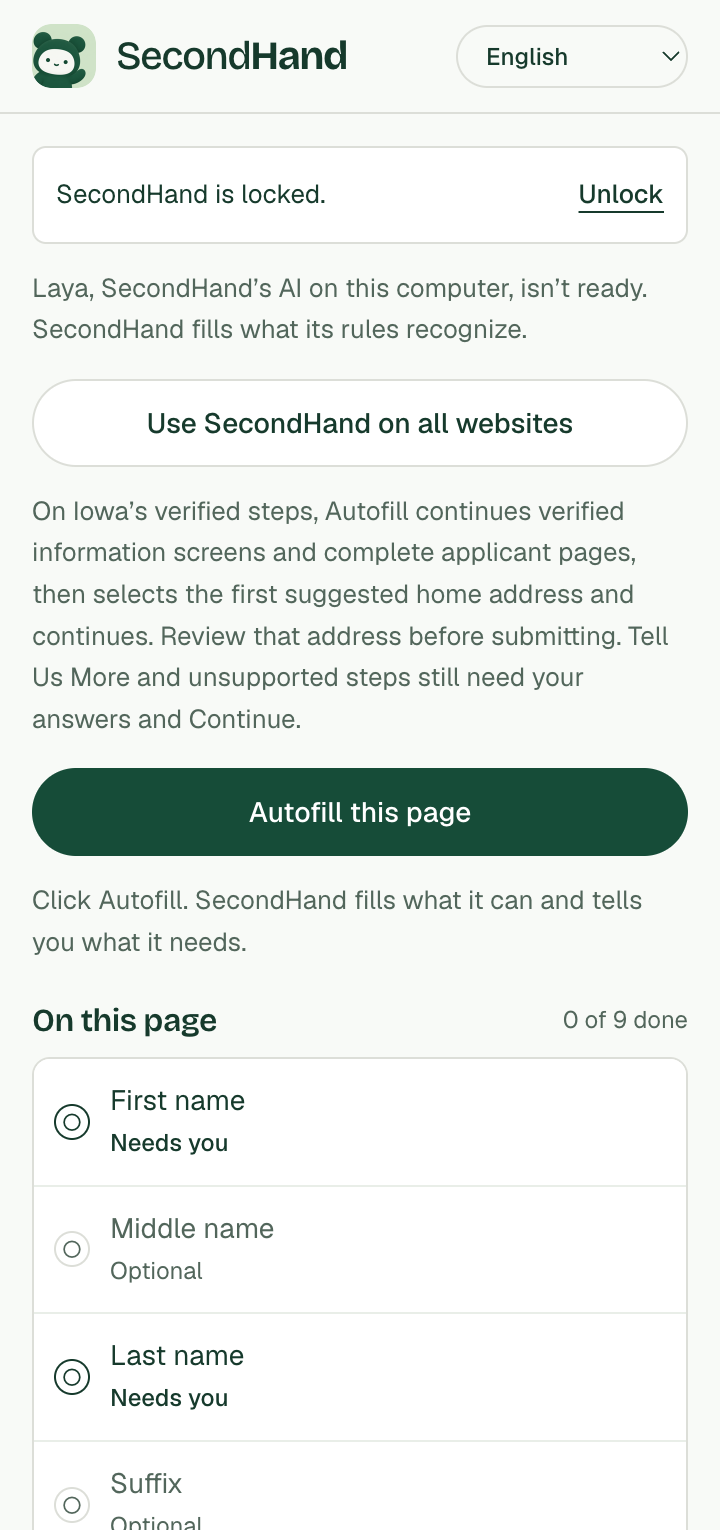
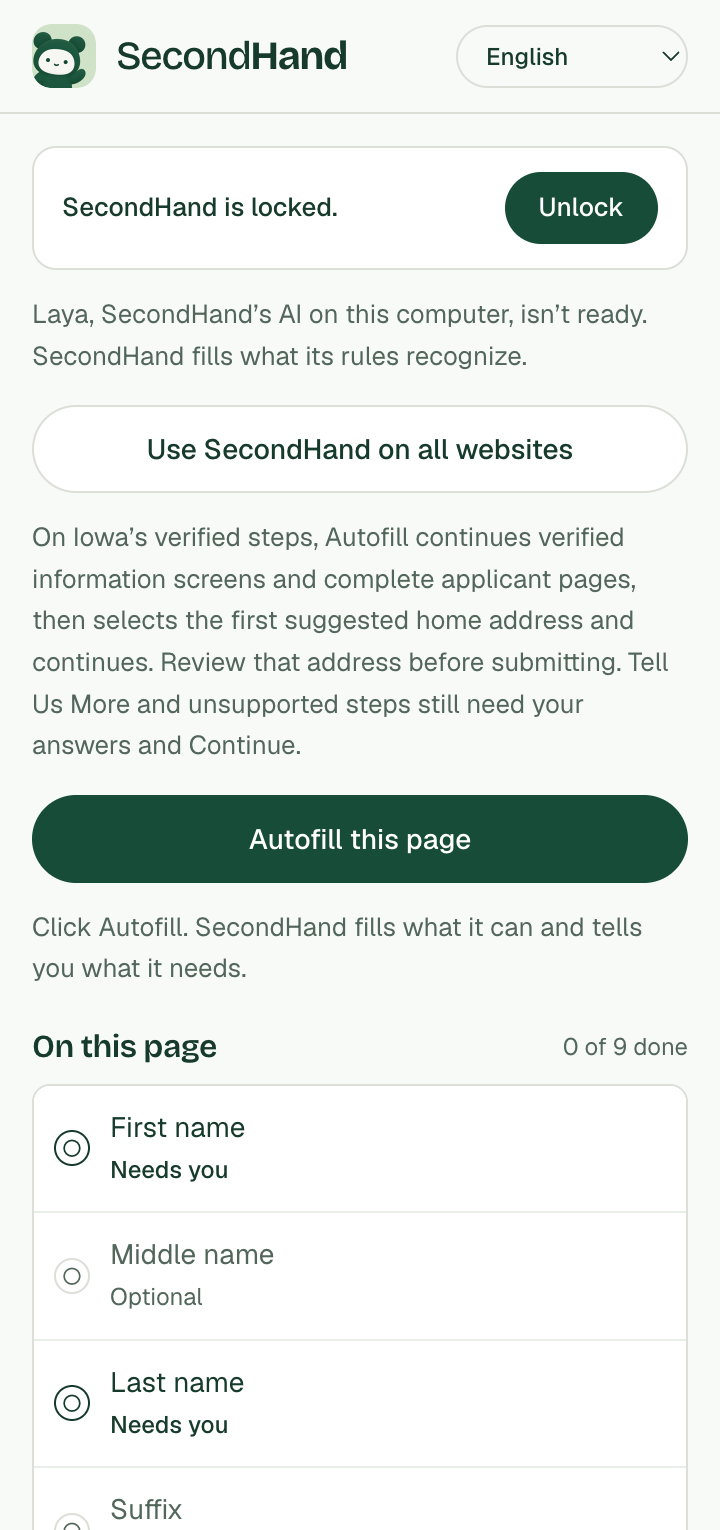
feat: show the app's status only when it needs you
The side panel no longer says SecondHand is unlocked, or that it is checking: an app that is open and unlocked needs nothing from the reader, so its row stays hidden. A locked or closed app shows as a notice with a button, Unlock or Open SecondHand, and only a real problem reaching the app is drawn as an error. The closed notice drops the sentence that repeated its button.

diff --git a/extension/strings.js b/extension/strings.js
@@ -49,7 +49,6 @@
     'panel.updateFailed': 'SecondHand couldn’t update its extension files. In the SecondHand app, open Chrome extension and click Refresh extension files. Then open chrome://extensions and click the reload arrow on SecondHand.',
     'panel.updateElsewhere': 'Chrome is running a copy of SecondHand that the app doesn’t update. In the SecondHand app, open Chrome extension and click Copy folder path. Then, at chrome://extensions, remove this copy, choose Load unpacked, and pick that folder.',
     'panel.assistantUnavailable': 'The assistant is unavailable. Reload the extension and this page.',
-    'panel.checkingDesktop': 'Checking SecondHand…',
     'panel.unlock': 'Unlock',
     'panel.framesEnable': 'Also turn on the embedded form',
     'panel.framesEnableHosts': 'Also turn on the embedded form ({hosts})',
@@ -90,8 +89,7 @@
     'panel.turningOffAllSites': 'Turning SecondHand off on all websites…',
     'panel.openForm': 'Open Iowa’s SNAP application or another food-assistance form in this tab.',
 
-    'desktop.notRunning': 'SecondHand isn’t running. Open the app on this computer.',
-    'desktop.unlocked': 'SecondHand is unlocked.',
+    'desktop.notRunning': 'SecondHand isn’t running.',
     'desktop.locked': 'SecondHand is locked.',
     'desktop.unlockThenAutofill': 'Unlock SecondHand, then click Autofill.',
     'desktop.open': 'Open SecondHand',
@@ -375,7 +373,6 @@
     'panel.updateFailed': 'SecondHand no pudo actualizar los archivos de su extensión. En la aplicación SecondHand, abra “Chrome extension” y haga clic en “Refresh extension files”. Luego abra chrome://extensions y haga clic en la flecha de recargar de SecondHand.',
     'panel.updateElsewhere': 'Chrome está usando una copia de SecondHand que la aplicación no actualiza. En la aplicación SecondHand, abra “Chrome extension” y haga clic en “Copy folder path”. Luego, en chrome://extensions, quite esta copia, elija “Cargar descomprimida” y seleccione esa carpeta.',
     'panel.assistantUnavailable': 'El asistente no está disponible. Recargue la extensión y esta página.',
-    'panel.checkingDesktop': 'Comprobando SecondHand…',
     'panel.unlock': 'Desbloquear',
     'panel.framesEnable': 'También activar el formulario integrado',
     'panel.framesEnableHosts': 'También activar el formulario integrado ({hosts})',
@@ -416,8 +413,7 @@
     'panel.turningOffAllSites': 'Desactivando SecondHand en todos los sitios web…',
     'panel.openForm': 'Abra la solicitud de SNAP de Iowa u otro formulario de ayuda alimentaria en esta pestaña.',
 
-    'desktop.notRunning': 'SecondHand no está abierto. Abra la aplicación en esta computadora.',
-    'desktop.unlocked': 'SecondHand está desbloqueado.',
+    'desktop.notRunning': 'SecondHand no está abierto.',
     'desktop.locked': 'SecondHand está bloqueado.',
     'desktop.unlockThenAutofill': 'Desbloquee SecondHand y luego haga clic en “Autocompletar”.',
     'desktop.open': 'Abrir SecondHand',
@@ -698,7 +694,6 @@
     'panel.updateFailed': 'SecondHand không thể cập nhật các tệp tiện ích của mình. Trong ứng dụng SecondHand, hãy mở “Chrome extension” và bấm “Refresh extension files”. Sau đó mở chrome://extensions và bấm mũi tên tải lại trên SecondHand.',
     'panel.updateElsewhere': 'Chrome đang chạy một bản SecondHand mà ứng dụng không cập nhật. Trong ứng dụng SecondHand, hãy mở “Chrome extension” và bấm “Copy folder path”. Sau đó, tại chrome://extensions, hãy xóa bản này, chọn “Tải tiện ích đã giải nén” rồi chọn thư mục đó.',
     'panel.assistantUnavailable': 'Trợ lý hiện không khả dụng. Hãy tải lại tiện ích và trang này.',
-    'panel.checkingDesktop': 'Đang kiểm tra SecondHand…',
     'panel.unlock': 'Mở khóa',
     'panel.framesEnable': 'Bật thêm cho biểu mẫu nhúng',
     'panel.framesEnableHosts': 'Bật thêm cho biểu mẫu nhúng ({hosts})',
@@ -739,8 +734,7 @@
     'panel.turningOffAllSites': 'Đang tắt SecondHand trên mọi trang web…',
     'panel.openForm': 'Hãy mở đơn SNAP của Iowa hoặc một biểu mẫu hỗ trợ thực phẩm khác trong thẻ này.',
 
-    'desktop.notRunning': 'SecondHand chưa chạy. Hãy mở ứng dụng trên máy tính này.',
-    'desktop.unlocked': 'SecondHand đã được mở khóa.',
+    'desktop.notRunning': 'SecondHand chưa chạy.',
     'desktop.locked': 'SecondHand đang bị khóa.',
     'desktop.unlockThenAutofill': 'Hãy mở khóa SecondHand, rồi bấm Tự điền.',
     'desktop.open': 'Mở SecondHand',
@@ -1022,7 +1016,6 @@
     'panel.updateFailed': 'SecondHand 无法更新其扩展程序文件。请在 SecondHand 应用中打开“Chrome extension”，点击“Refresh extension files”。然后打开 chrome://extensions，点击 SecondHand 上的重新加载箭头。',
     'panel.updateElsewhere': 'Chrome 正在运行一份应用不会更新的 SecondHand 副本。请在 SecondHand 应用中打开“Chrome extension”，点击“Copy folder path”。然后在 chrome://extensions 中移除这份副本，选择“加载已解压的扩展程序”，再选择该文件夹。',
     'panel.assistantUnavailable': '助手不可用。请重新加载扩展程序和此页面。',
-    'panel.checkingDesktop': '正在检查 SecondHand…',
     'panel.unlock': '解锁',
     'panel.framesEnable': '同时开启内嵌表格',
     'panel.framesEnableHosts': '同时开启内嵌表格（{hosts}）',
@@ -1063,8 +1056,7 @@
     'panel.turningOffAllSites': '正在所有网站上关闭 SecondHand…',
     'panel.openForm': '请在此标签页中打开爱荷华州的 SNAP 申请或其他食物援助表格。',
 
-    'desktop.notRunning': 'SecondHand 未运行。请在这台电脑上打开应用。',
-    'desktop.unlocked': 'SecondHand 已解锁。',
+    'desktop.notRunning': 'SecondHand 未运行。',
     'desktop.locked': 'SecondHand 已锁定。',
     'desktop.unlockThenAutofill': '请解锁 SecondHand，然后点击自动填写。',
     'desktop.open': '打开 SecondHand',
@@ -1346,7 +1338,6 @@
     'panel.updateFailed': 'SecondHand n’a pas pu mettre à jour les fichiers de son extension. Dans l’application SecondHand, ouvrez « Chrome extension » et cliquez sur « Refresh extension files ». Ouvrez ensuite chrome://extensions et cliquez sur la flèche de rechargement de SecondHand.',
     'panel.updateElsewhere': 'Chrome utilise une copie de SecondHand que l’application ne met pas à jour. Dans l’application SecondHand, ouvrez « Chrome extension » et cliquez sur « Copy folder path ». Ensuite, dans chrome://extensions, supprimez cette copie, choisissez « Charger l’extension non empaquetée » et sélectionnez ce dossier.',
     'panel.assistantUnavailable': 'L’assistant n’est pas disponible. Rechargez l’extension et cette page.',
-    'panel.checkingDesktop': 'Vérification de SecondHand…',
     'panel.unlock': 'Déverrouiller',
     'panel.framesEnable': 'Activer aussi le formulaire intégré',
     'panel.framesEnableHosts': 'Activer aussi le formulaire intégré ({hosts})',
@@ -1387,8 +1378,7 @@
     'panel.turningOffAllSites': 'Désactivation de SecondHand sur tous les sites…',
     'panel.openForm': 'Ouvrez la demande SNAP de l’Iowa ou un autre formulaire d’aide alimentaire dans cet onglet.',
 
-    'desktop.notRunning': 'SecondHand n’est pas ouvert. Ouvrez l’application sur cet ordinateur.',
-    'desktop.unlocked': 'SecondHand est déverrouillé.',
+    'desktop.notRunning': 'SecondHand n’est pas ouvert.',
     'desktop.locked': 'SecondHand est verrouillé.',
     'desktop.unlockThenAutofill': 'Déverrouillez SecondHand, puis cliquez sur Remplir.',
     'desktop.open': 'Ouvrir SecondHand',
@@ -1670,7 +1660,6 @@
     'panel.updateFailed': 'تعذّر على SecondHand تحديث ملفات إضافته. في تطبيق SecondHand، افتح “Chrome extension” وانقر على “Refresh extension files”. ثم افتح chrome://extensions وانقر على سهم إعادة التحميل في SecondHand.',
     'panel.updateElsewhere': 'يشغّل Chrome نسخة من SecondHand لا يحدّثها التطبيق. في تطبيق SecondHand، افتح “Chrome extension” وانقر على “Copy folder path”. ثم في chrome://extensions، أزل هذه النسخة واختر “تحميل الإضافة غير المضغوطة” وحدد ذلك المجلد.',
     'panel.assistantUnavailable': 'المساعد غير متاح. أعد تحميل الإضافة وهذه الصفحة.',
-    'panel.checkingDesktop': 'جارٍ التحقق من SecondHand…',
     'panel.unlock': 'فتح القفل',
     'panel.framesEnable': 'تشغيل النموذج المضمَّن أيضًا',
     'panel.framesEnableHosts': 'تشغيل النموذج المضمَّن أيضًا ({hosts})',
@@ -1711,8 +1700,7 @@
     'panel.turningOffAllSites': 'جارٍ إيقاف SecondHand على كل المواقع…',
     'panel.openForm': 'افتح طلب SNAP الخاص بأيوا أو نموذجًا آخر للمساعدة الغذائية في علامة التبويب هذه.',
 
-    'desktop.notRunning': 'SecondHand لا يعمل. افتح التطبيق على هذا الكمبيوتر.',
-    'desktop.unlocked': 'SecondHand غير مقفل.',
+    'desktop.notRunning': 'SecondHand لا يعمل.',
     'desktop.locked': 'SecondHand مقفل.',
     'desktop.unlockThenAutofill': 'افتح قفل SecondHand، ثم انقر على تعبئة تلقائية.',
     'desktop.open': 'افتح SecondHand',

diff --git a/extension/panel.js b/extension/panel.js
@@ -367,8 +367,10 @@
     }
     // On a tab SecondHand can't read: where to go.
     const elsewhere = () => ({ key: allSites ? 'panel.openForm' : 'panel.openIowa' });
+    // The desktop row shows only while the app needs opening or unlocking, or can't be reached.
     function renderDesktop() {
-      if (desktopLine) $('desktop-status').textContent = words(desktopLine);
+      $('desktop-status').parentElement.hidden = !desktopLine;
+      $('desktop-status').textContent = desktopLine ? words(desktopLine) : '';
       $('desktop-action').hidden = !desktopAction;
       $('desktop-action').textContent = desktopAction ? t(ACTIONS[desktopAction]) : '';
       $('laya-status').hidden = !layaLine;
@@ -556,10 +558,10 @@
     function showDesktop(desktop) {
       allSites = typeof desktop?.allSites === 'boolean' ? desktop.allSites : null;
       updateSteps = Object.hasOwn(UPDATE_STEPS, desktop?.update) ? UPDATE_STEPS[desktop.update] : null;
-      desktopLine = { key: !desktop?.connected ? 'desktop.notRunning' : desktop.unlocked ? 'desktop.unlocked' : 'desktop.locked' };
+      desktopLine = !desktop?.connected ? { key: 'desktop.notRunning' } : desktop.unlocked ? null : { key: 'desktop.locked' };
       layaLine = desktop?.connected && Object.hasOwn(LAYA_LINES, desktop.laya) ? { key: LAYA_LINES[desktop.laya] } : null;
       desktopAction = !desktop?.connected ? 'open' : desktop.unlocked ? null : 'unlock';
-      $('desktop-status').parentElement.classList.toggle('error', !(desktop?.connected && desktop.unlocked));
+      $('desktop-status').parentElement.classList.remove('error');
     }
     function desktopProblem(message) {
       desktopLine = message; layaLine = null; desktopAction = null;

diff --git a/extension/panel.css b/extension/panel.css
@@ -24,7 +24,8 @@ body.launcher-surface{background:transparent}#launcher{width:100%;height:100%;di
 .wordmark{direction:ltr;font-family:var(--display);font-size:clamp(16px,5.6vw,20px);font-weight:500;letter-spacing:-.04em;line-height:1;white-space:nowrap}.wordmark span span{font-weight:700}
 .language-picker{margin-inline-start:auto;max-width:132px;padding:6px 10px;border:1px solid var(--border);border-radius:100px;background:var(--background);font-size:12px;font-weight:500}
 main{padding:16px 16px 0}
-.desktop-row{display:flex;justify-content:space-between;align-items:center;gap:8px;padding:9px 11px;background:var(--muted);border:1px solid var(--border);border-radius:7px}.desktop-row>span{color:var(--muted-foreground);line-height:1.5}.desktop-row.error{background:#fff}.desktop-row.error>span{color:var(--foreground)}
+/* The app needs opening or unlocking. */
+.desktop-row{display:flex;flex-wrap:wrap;justify-content:space-between;align-items:center;gap:8px 12px;padding:12px 14px;background:#fff;border:1px solid var(--border);border-radius:12px}.desktop-row>span{flex:1 1 140px;font-weight:500}.desktop-row.error>span{color:var(--danger)}.desktop-row .button{min-height:36px;margin-top:0;padding:6px 16px;font-size:13px}
 /* The website's buttons: a filled pill, an outlined pill, and an underlined link. */
 .button{display:inline-flex;align-items:center;justify-content:center;min-height:44px;padding:10px 20px;border:1px solid transparent;border-radius:100px;font-size:14px;font-weight:500;line-height:1.3;text-align:center;margin-top:14px}.full{width:100%}
 .primary{background:var(--primary);color:#fff}.primary:hover:enabled{background:var(--pressed)}

diff --git a/extension/panel.html b/extension/panel.html
@@ -44,7 +44,7 @@
       </select>
     </header>
     <main id="panel-body">
-      <div class="desktop-row"><span id="desktop-status" data-i18n="panel.checkingDesktop"></span><button id="desktop-action" class="text-button" type="button" hidden></button></div>
+      <div class="desktop-row" hidden><span id="desktop-status"></span><button id="desktop-action" class="button primary" type="button" hidden></button></div>
       <p id="update-note" class="status" role="status" aria-live="polite" hidden></p>
       <p id="laya-status" class="status" hidden></p>
       <button id="frames-enable" class="button primary full" type="button" data-i18n="panel.framesEnable" hidden></button>
